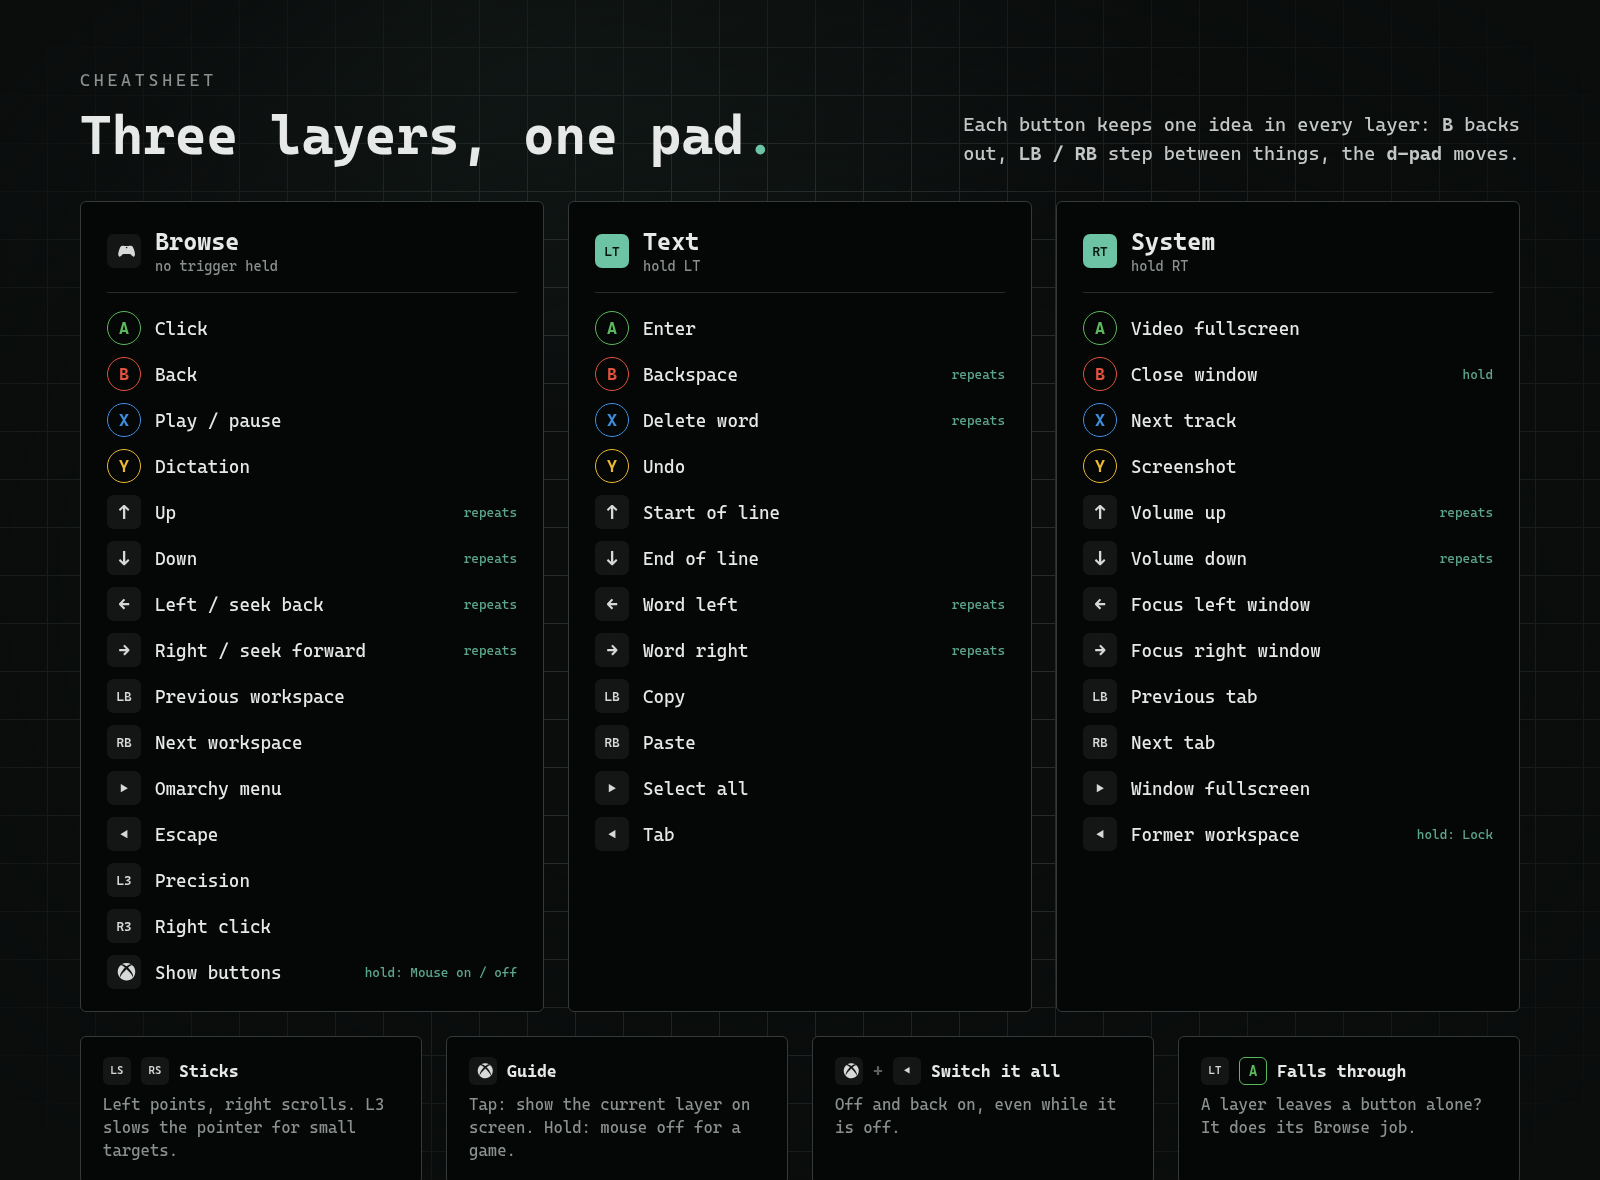
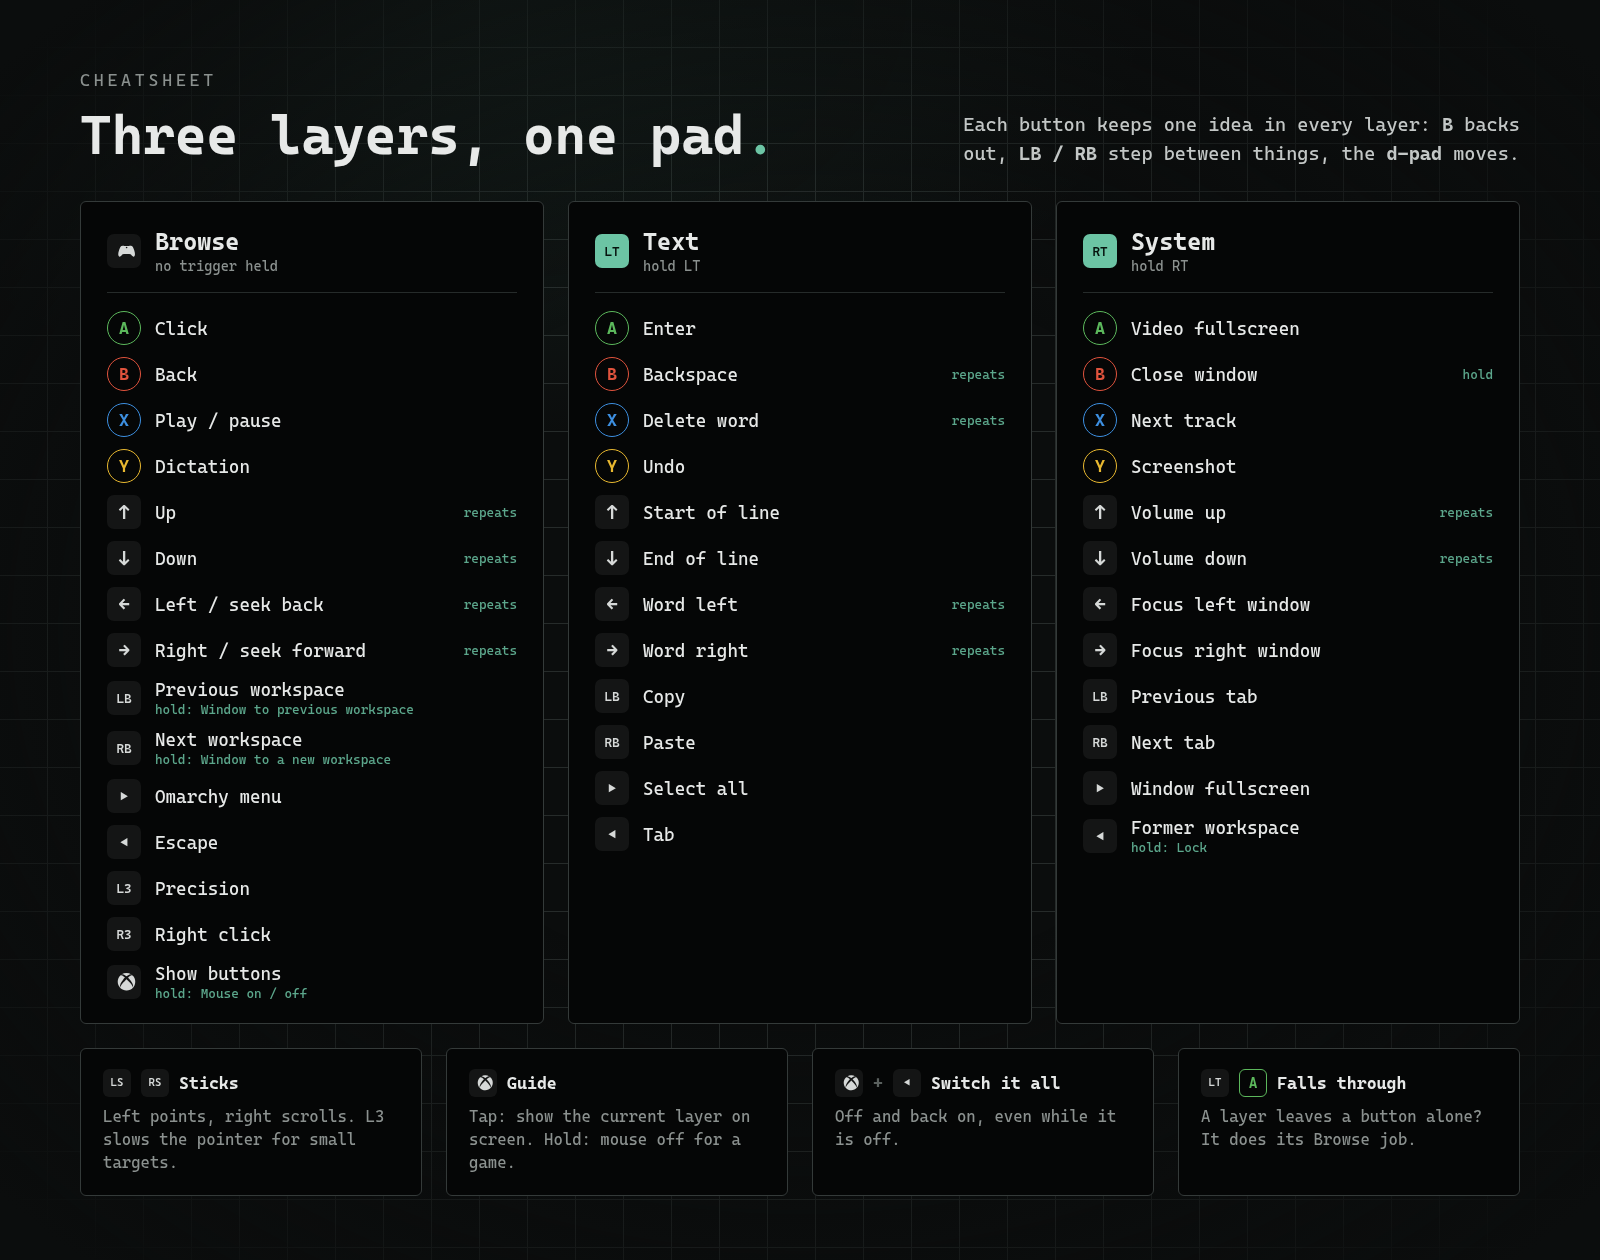
Hold a bumper to take the focused window along
Holding RB moves the window to a new, empty workspace and follows it;
holding LB carries it back to the previous one. Taps still switch
workspaces. Opening something on its own workspace is now: open it, hold
RB.

The cheatsheet puts a button's hold action on its own line.

diff --git a/tools/graphics.py b/tools/graphics.py
@@ -192,15 +192,18 @@ def preview(config: Config) -> str:
 
 
 def cheatsheet(config: Config) -> str:
-    w, h = 1600, 1180
+    w, h = 1600, 1260
     columns = []
     for layer in config.layers:
-        rows = "".join(
-            f'<div class="r">{cap(b)}<div class="l">{html.escape(l)}</div>'
-            + (f'<div class="how">{html.escape(how)}</div>' if how else "")
-            + "</div>"
-            for b, l, how in entries(layer)
-        )
+        def row(b, l, how):
+            # A second action on a hold gets its own line; a plain tag stays right.
+            if how.startswith("hold: "):
+                return (f'<div class="r">{cap(b)}<div class="l">{html.escape(l)}'
+                        f'<div class="sub">hold: {html.escape(how[6:])}</div></div></div>')
+            tag = f'<div class="how">{html.escape(how)}</div>' if how else ""
+            return f'<div class="r">{cap(b)}<div class="l">{html.escape(l)}</div>{tag}</div>'
+
+        rows = "".join(row(*entry) for entry in entries(layer))
         head = (f'{cap(layer.key, lit=True)}<div><div class="ln">{html.escape(layer.name)}</div>'
                 f'<div class="dim small">hold {layer.key}</div></div>') if layer.key else (
                 f'<div class="cap" style="font-size:20px">\U000F05BA</div><div><div class="ln">{html.escape(layer.name)}</div>'
@@ -217,6 +220,7 @@ def cheatsheet(config: Config) -> str:
       .ln { font-size:24px; font-weight:700; } .small { font-size:14px; margin-top:2px; }
       .r { display:flex; align-items:center; gap:14px; font-size:18px; }
       .l { flex:1; } .how { font-size:13px; color:var(--accent); opacity:.85; }
+      .sub { font-size:13px; color:var(--accent); opacity:.85; margin-top:2px; }
       .foot { display:grid; grid-template-columns:repeat(4, 1fr); gap:24px; margin-top:24px; }
       .f { padding:20px 22px; font-size:16px; line-height:1.45; }
       .f b { display:flex; align-items:center; gap:10px; font-size:17px; margin-bottom:8px; }

diff --git a/padd/config.py b/padd/config.py
@@ -59,6 +59,12 @@ def _k(keys, label, repeat=False):
     return action
 
 
+def _move(workspace, label):
+    """Move the focused window to a workspace and follow it there."""
+    lua = f'hl.dsp.window.move({{ workspace = "{workspace}" }})'
+    return {"exec": f"hyprctl dispatch '{lua}'", "label": label}
+
+
 # Browse with the sticks and face buttons, hold LT for text editing, hold
 # RT for the system. A button keeps a related job in every layer: B goes
 # back, deletes, and closes; the d-pad moves, jumps words, and moves focus.
@@ -75,8 +81,16 @@ DEFAULT_LAYERS = [
             "DOWN": _k("DOWN", "Down", True),
             "LEFT": _k("LEFT", "Left / seek back", True),
             "RIGHT": _k("RIGHT", "Right / seek forward", True),
-            "LB": _k("SUPER+SHIFT+TAB", "Previous workspace"),
-            "RB": _k("SUPER+TAB", "Next workspace"),
+            # Hold a bumper to take the focused window along: RB gives it a
+            # workspace of its own, LB carries it back.
+            "LB": {
+                "tap": _k("SUPER+SHIFT+TAB", "Previous workspace"),
+                "hold": _move("e-1", "Window to previous workspace"),
+            },
+            "RB": {
+                "tap": _k("SUPER+TAB", "Next workspace"),
+                "hold": _move("empty", "Window to a new workspace"),
+            },
             "START": _k("SUPER+SPACE", "Omarchy menu"),
             "BACK": _k("ESC", "Escape"),
             "L3": {"mouse": "precision", "label": "Precision"},

diff --git a/tests/py/test_daemon.py b/tests/py/test_daemon.py
@@ -131,6 +131,14 @@ class TestDaemon(unittest.TestCase):
         self.pad.set("RT", False)
         self.assertEqual(self.daemon.fired(), ["system:Former workspace", "system:Lock"])
 
+    def test_bumper_tap_switches_and_hold_takes_the_window(self):
+        self.pad.tap("RB", hold=0.05)
+        self.pad.tap("RB", hold=0.45)
+        self.pad.tap("LB", hold=0.45)
+        self.assertEqual(self.daemon.fired(), [
+            "base:Next workspace", "base:Window to a new workspace", "base:Window to previous workspace",
+        ])
+
     def test_pause_reports_buttons_but_runs_nothing(self):
         self.daemon.send(cmd="pause")
         self.daemon.wait("state", paused=True)

diff --git a/README.md b/README.md
@@ -47,7 +47,7 @@ Then three things make it easy to learn:
 | **Y** | Dictation ([voxtype](https://voxtype.io)) | Undo | Screenshot |
 | **D-pad ↑ ↓** | Arrows, repeat | Start / end of line | Volume, repeats |
 | **D-pad ← →** | Arrows, repeat (seek a video) | Word left / right | Focus window left / right |
-| **LB / RB** | Previous / next workspace | Copy / paste | Previous / next tab |
+| **LB / RB** | Previous / next workspace; hold to take the window along | Copy / paste | Previous / next tab |
 | **Start** | Omarchy menu | Select all | Window fullscreen |
 | **Back** | Escape | Tab | Former workspace; hold to lock |
 
@@ -58,6 +58,12 @@ Then three things make it easy to learn:
 | **L3 / R3** | Precision mode (slower pointer) / right click |
 | **Guide** | Tap: show the current layer's card. Hold: mouse off and on, for games |
 | **Guide + Back** | Switch the whole controller off and on, even while it is off |
+
+Holding **RB** moves the focused window to a new, empty workspace and takes
+you there; holding **LB** carries it back to the previous one. To open
+something on a workspace of its own, open it as usual and hold RB. One app
+per workspace, made fullscreen with RT + Start, reads well from across the
+room, and LB / RB flip between them like channels.
 
 Everything here can be changed in the panel or the config.
 
